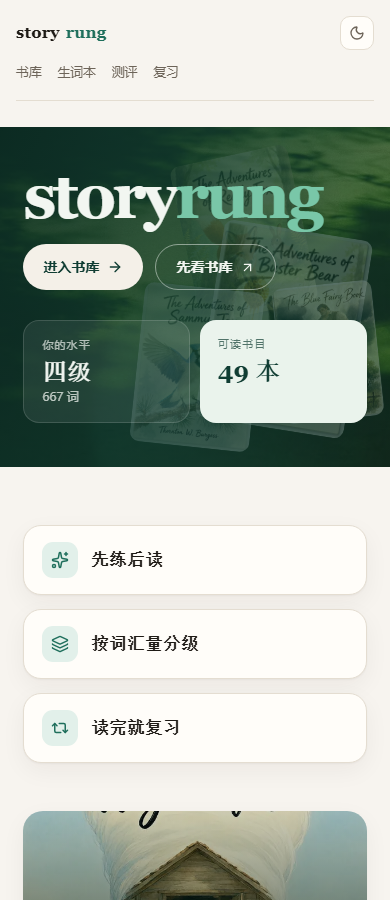
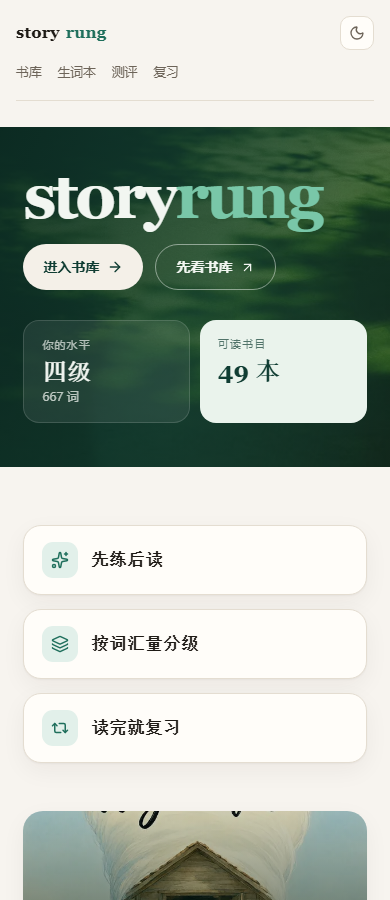
fix(web): 窄屏隐藏 hero 里的悬浮书封
删掉文案后 hero 变矮，390 宽下那几本悬浮书会压在「进入书库 / 先看书库」
和数字卡上。<=720px 只保留树叶纹理和字标，书封留到桌面端。

Changed region(s): [[0.4615, 0.2489, 0.9846, 0.4667], [0.3385, 0.4044, 0.8923, 0.5289], [0.4, 0.4044, 0.4615, 0.4356]]

diff --git a/apps/web/app/theme.css b/apps/web/app/theme.css
@@ -1220,6 +1220,13 @@ body {
 .lp-hero-leaf-a { top: -80px; right: 20%; transform: rotate(24deg); }
 .lp-hero-leaf-b { bottom: -120px; right: -40px; transform: rotate(-40deg); }
 
+/* 窄屏放不下悬浮书封，会和按钮/数字卡叠在一起，只保留纹理 */
+@media (max-width: 720px) {
+  .lp-hero-cover {
+    display: none;
+  }
+}
+
 .lp-hero-inner {
   position: relative;
   max-width: 720px;
